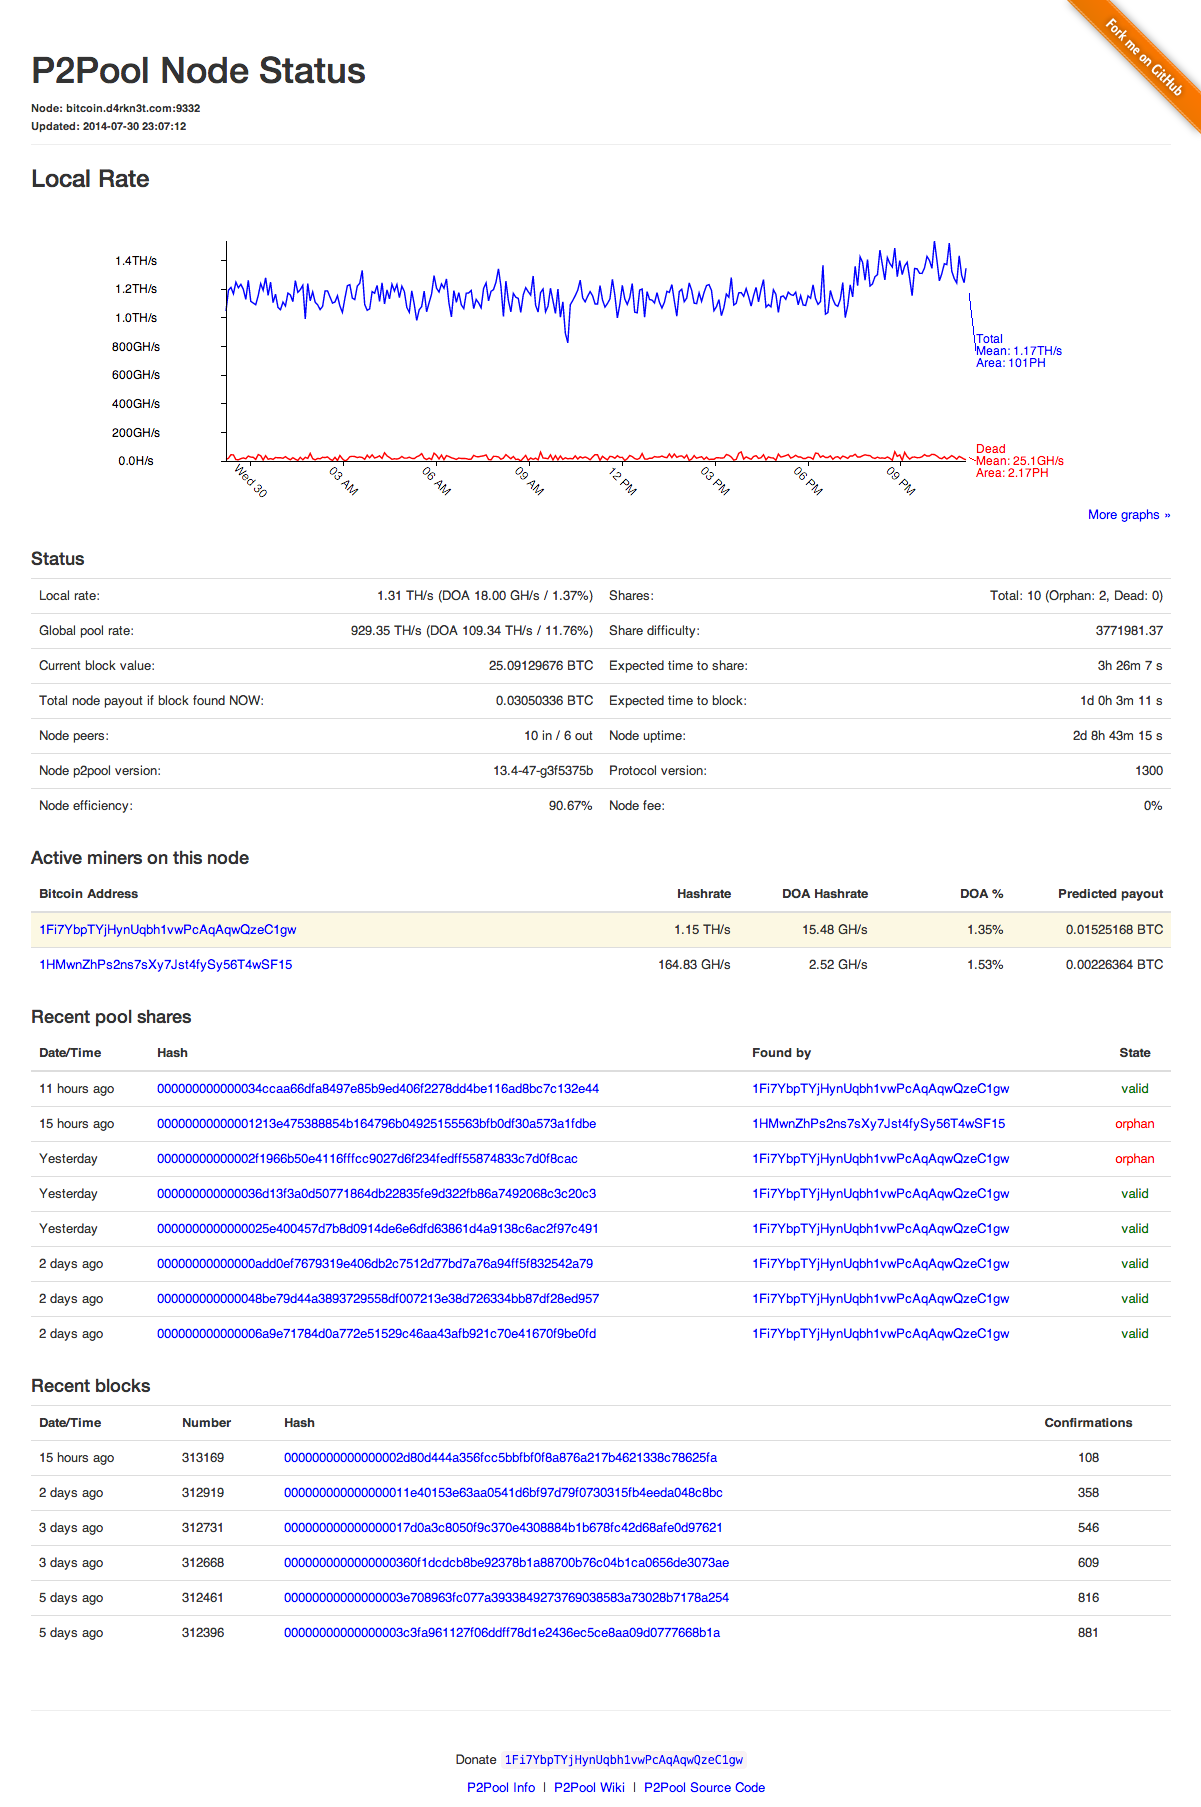
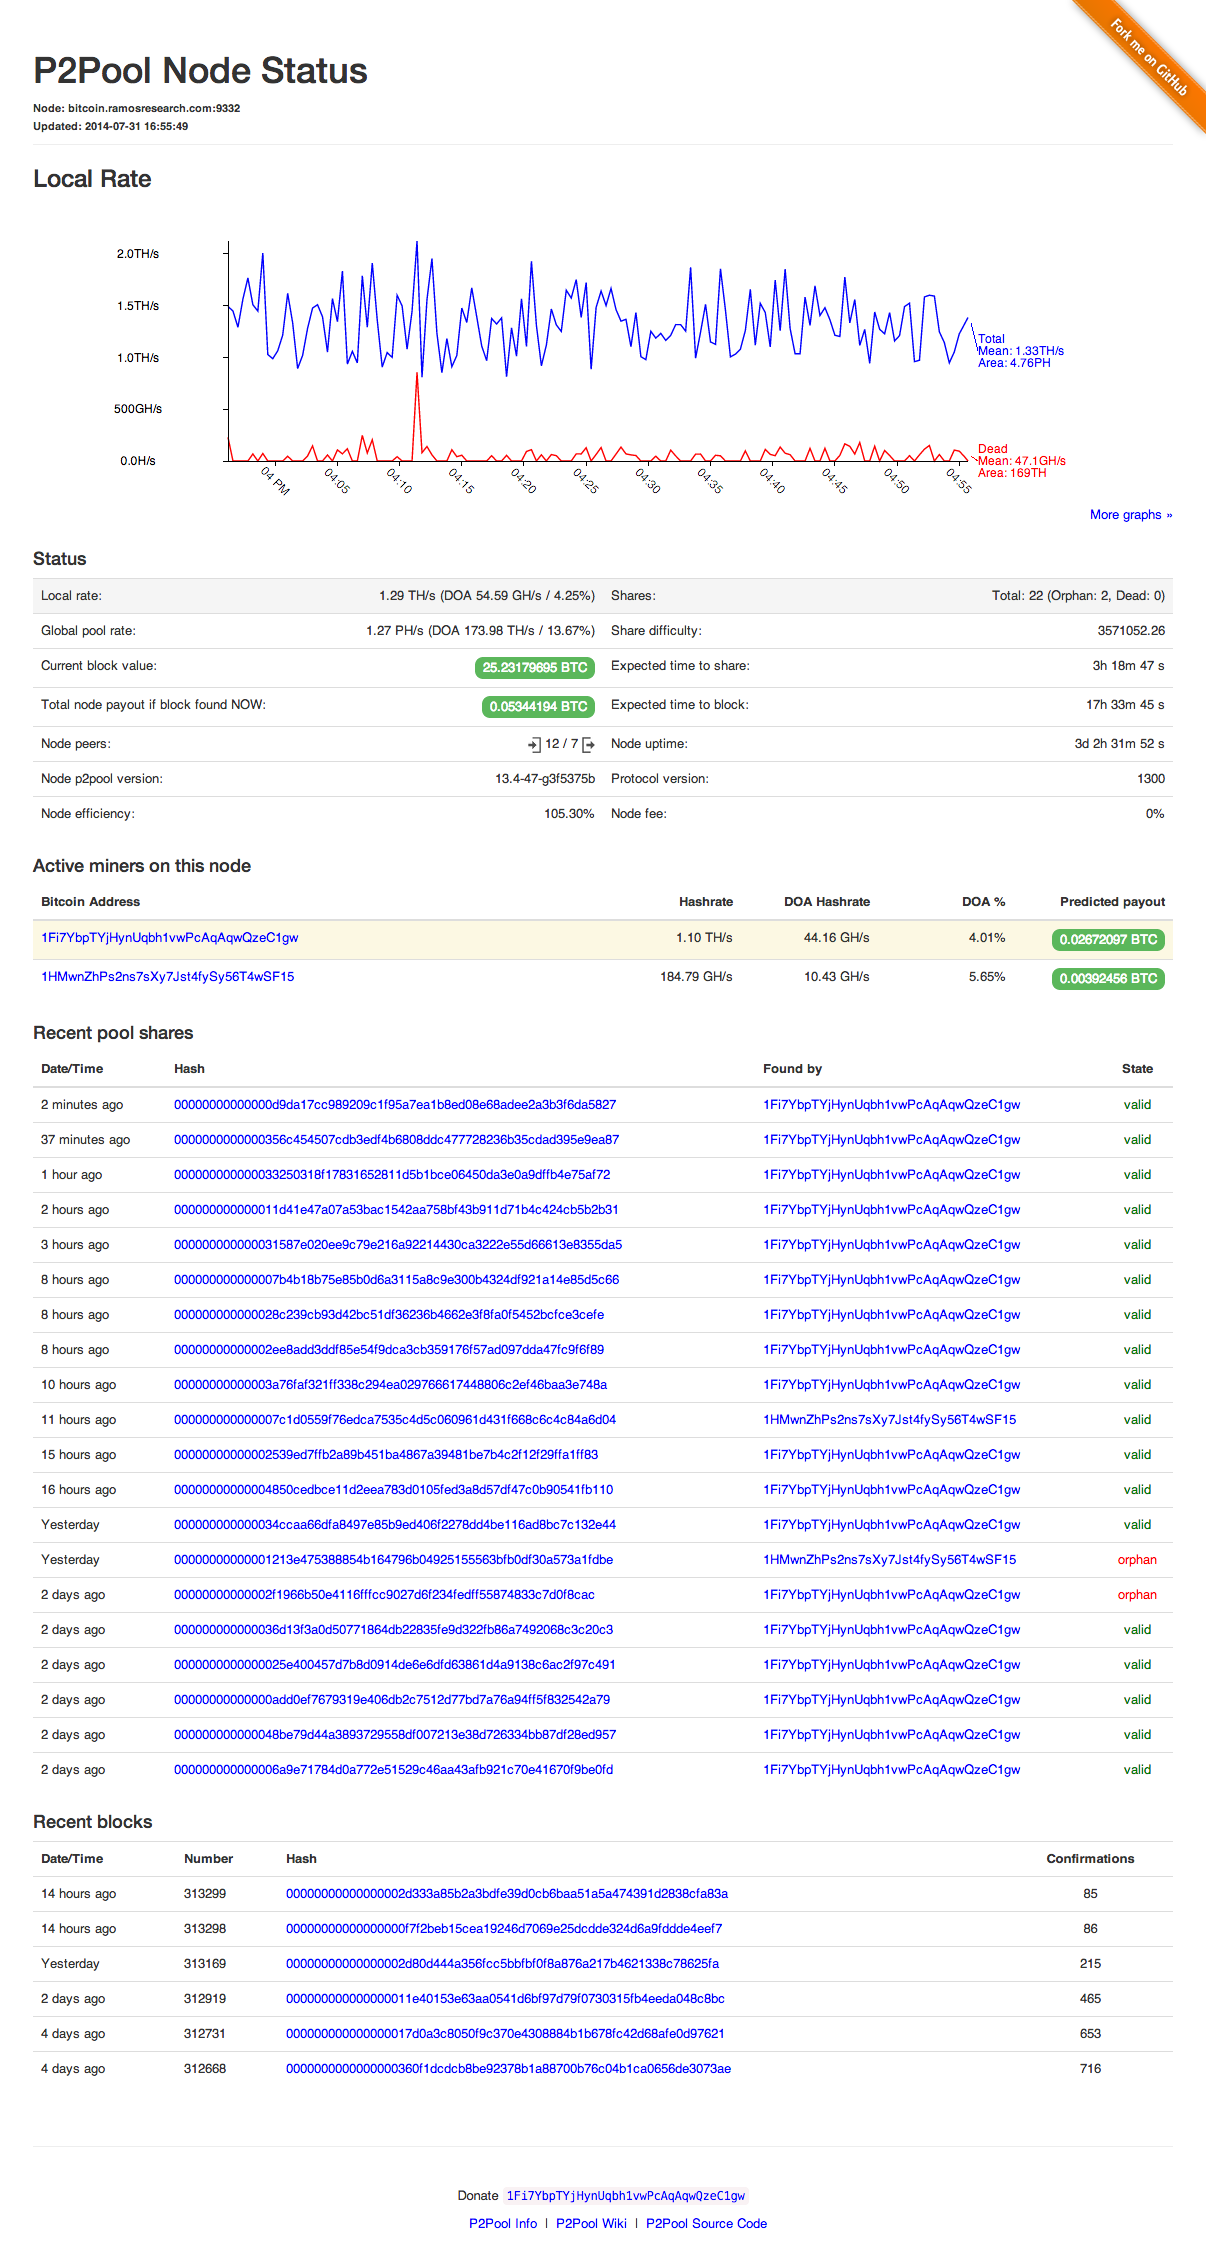
adding convert_bitcoin_to_usd to README; new screenshot

diff --git a/README.md b/README.md
@@ -4,6 +4,7 @@ p2pool-node-status
 A clean p2pool node dashboard. It provides:
 
 * Audio and text notifications for new shares and blocks (on most modern browsers)
+* Automatic conversion of BTC to USD
 * Detailed information about each share, block and transaction
 * All the graphs you know and love
 
@@ -43,6 +44,7 @@ var config = {
   node_name : '',
   reload_interval : 30,
   reload_chart_interval : 600,
+  convert_bitcoin_to_usd: true,
   enable_audio : true,
   header_url : '',
   footer_url : ''
@@ -59,6 +61,7 @@ var config = {
   node_name : 'bitcoin.ramosresearch.com:9332',
   reload_interval : 30,
   reload_chart_interval : 600,
+  convert_bitcoin_to_usd: true,
   enable_audio : true,
   header_url : '',
   footer_url : ''
@@ -67,7 +70,7 @@ var config = {
 
 ### Adjust the reload intervals
 
-Per default the UI updates the miner list and server stats every 30 seconds.  You can adjust the `reload_interval` variable like
+By default the UI updates the miner list and server stats every 30 seconds.  You can adjust the `reload_interval` variable like
 
 ``` JavaScript
 var config = {
@@ -75,6 +78,7 @@ var config = {
   node_name : '',
   reload_interval : 20,
   reload_chart_interval : 1200,
+  convert_bitcoin_to_usd: true,
   enable_audio : true,
   header_url : '',
   footer_url : ''
@@ -87,6 +91,23 @@ to set it to 20 seconds for example.
 
 **Beware** that each API query puts network and CPU load on your p2pool installation.  Avoid decreasing this value too much.  In my tests, 20 to 30 seconds seem to be fair enough.
 
+### Bitcoin currency conversion
+
+By default, Bitcoin values are automatically converted to US dollars. This is accomplished by using real-time data from [BitcoinAverage](https://api.bitcoinaverage.com/ticker/all). To disable this feature, set the value of `convert_bitcoin_to_usd` to `false`.
+
+``` JavaScript
+var config = {
+  myself : [],
+  node_name : '',
+  reload_interval : 30,
+  reload_chart_interval : 600,
+  convert_bitcoin_to_usd: false,
+  enable_audio : false,
+  header_url : '',
+  footer_url : ''
+}
+```
+
 ### Disable audio notifications
 
 By default, audio is played when new shares or blocks are discovered. This can be disabled via the `enable_audio` configuration option. Set it to false if you don't want to hear audio notifications.
@@ -97,6 +118,7 @@ var config = {
   node_name : '',
   reload_interval : 30,
   reload_chart_interval : 600,
+  convert_bitcoin_to_usd: true,
   enable_audio : false,
   header_url : '',
   footer_url : ''
@@ -113,6 +135,7 @@ var config = {
   node_name : '',
   reload_interval : 30,
   reload_chart_interval : 600,
+  convert_bitcoin_to_usd: true,
   enable_audio : true,
   header_url : 'header.html',
   footer_url : 'footer.html'
